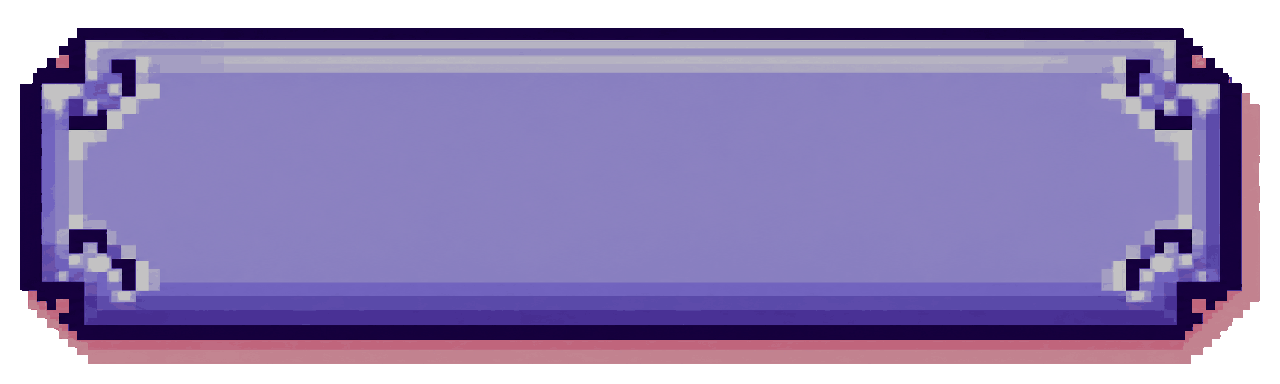
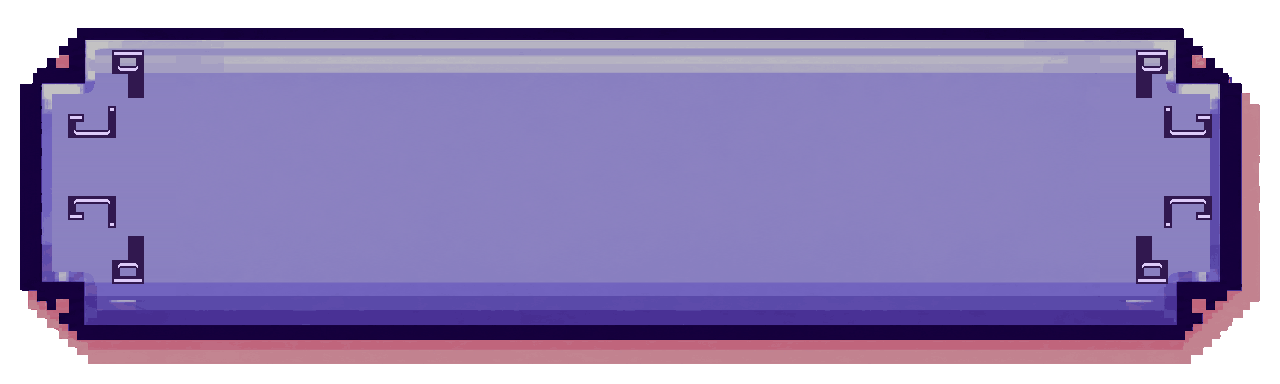
Keep button ornaments intact in runtime corner slices

Changed region(s): [[0.8438, 0.125, 0.9688, 0.7812], [0.0312, 0.125, 0.125, 0.7812]]

diff --git a/apps/desktop/src/styles/pixelButtons.css b/apps/desktop/src/styles/pixelButtons.css
@@ -101,9 +101,9 @@
   box-sizing: border-box;
   pointer-events: none;
   border: solid transparent;
-  border-width: 10px 16px 12px;
-  border-image-slice: 96 180 108 180 fill;
-  border-image-width: 10px 16px 12px;
+  border-width: 16px 20px 20px;
+  border-image-slice: 160 180 192 180 fill;
+  border-image-width: 16px 20px 20px;
   border-image-repeat: stretch;
   border-image-source: var(--sprite-normal);
   transition: filter 100ms ease;

diff --git a/docs/execution/review-handoffs/windows-webview-polish-2026-10-25.md b/docs/execution/review-handoffs/windows-webview-polish-2026-10-25.md
@@ -117,3 +117,10 @@ Human-selected Phase B only. Review against the final artwork-preserving impleme
 - Human explicitly requested imagegen refinement of the shared tiny angular bracket ornaments. Used the built-in image_gen tool with secondary-normal.png as the edit target; transparent output requested. Prompt: refine only the four corner angular bracket flourishes, mirror symmetry, crisp intentional pixels, no smudges/random white specks; preserve stepped purple silhouette, cream interior and pink shadow; no text/icons or new design.
 - The generated full sprite changed canvas/proportions, so it was not substituted wholesale. Integrated only the two generated ornamental motifs, sampled to integral 4x6/6x4 grids and reflected into four corners of each of the five existing secondary states. Original complete alpha channel retained; the connected outer purple rim is preserved. Only safe interior ornament regions were cleaned. Source generation: artifacts/lab/checks/windows-polish-2026-10-27/ornament-imagegen-source.png; final runtime assets: apps/desktop/public/design/media/assets/buttons/jewel/secondary-{normal,hover,pressed,focus,disabled}.png. Active primary jewel sprites remain their original assets.
 - Browser fixture inspected at actual button sizes in Capture and Appearance; saved ornaments-final.jpg. Frontend production build passed; native executable rebuilt. No structural/product behavior changes or push.
+
+## Correct runtime slicing and restore ornament depth: 2026-10-28
+
+- Human observed source/runtime mismatch, particularly Start capture. The old nine-slice top cut (96px) bisected the second upper flourish at y102–122; lower flourishes also fell into the stretched center. Changed slices to 160/180/192/180 and rendered corner widths to 16/20/20/20px, keeping both motifs in fixed-size corners rather than the stretched center.
+- Applied the generated angular motifs to primary as well as secondary normal/hover/pressed/focus states. Motifs now use 8px source-grid cells and an inset pale highlight for relief. Cleared the old noisy ornament region using the original row surface color, preserving the purple gradient/bevel, exterior contour and complete alpha. Disabled original sprites retained.
+- Inspected Capture and Appearance browser fixtures at actual sizes, including 40px controls. Evidence: button-runtime-refined.jpg in artifacts/lab/checks/windows-polish-2026-10-27/ (browser fixture, not native Windows screenshot). Frontend build passed; native build regenerated. No push.
+- Final UI tests passed: 69 passed, 1 skipped. The correction changes artwork/slicing only; no behavioral test changes.
